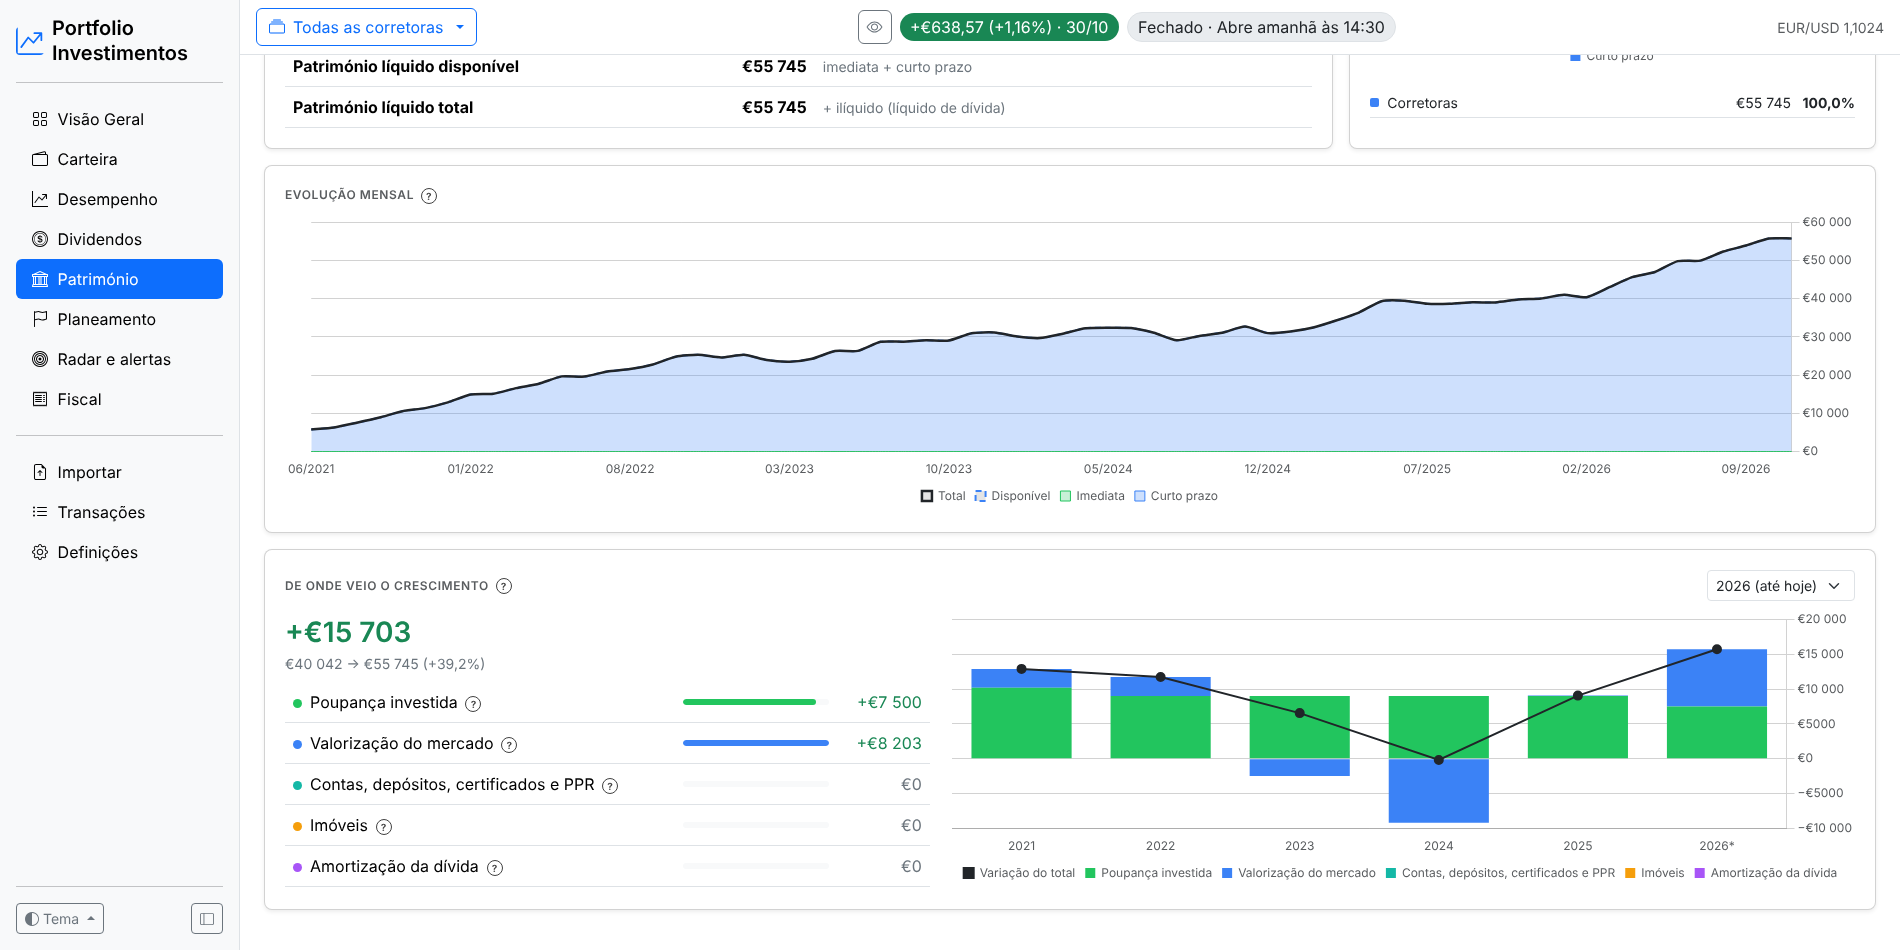
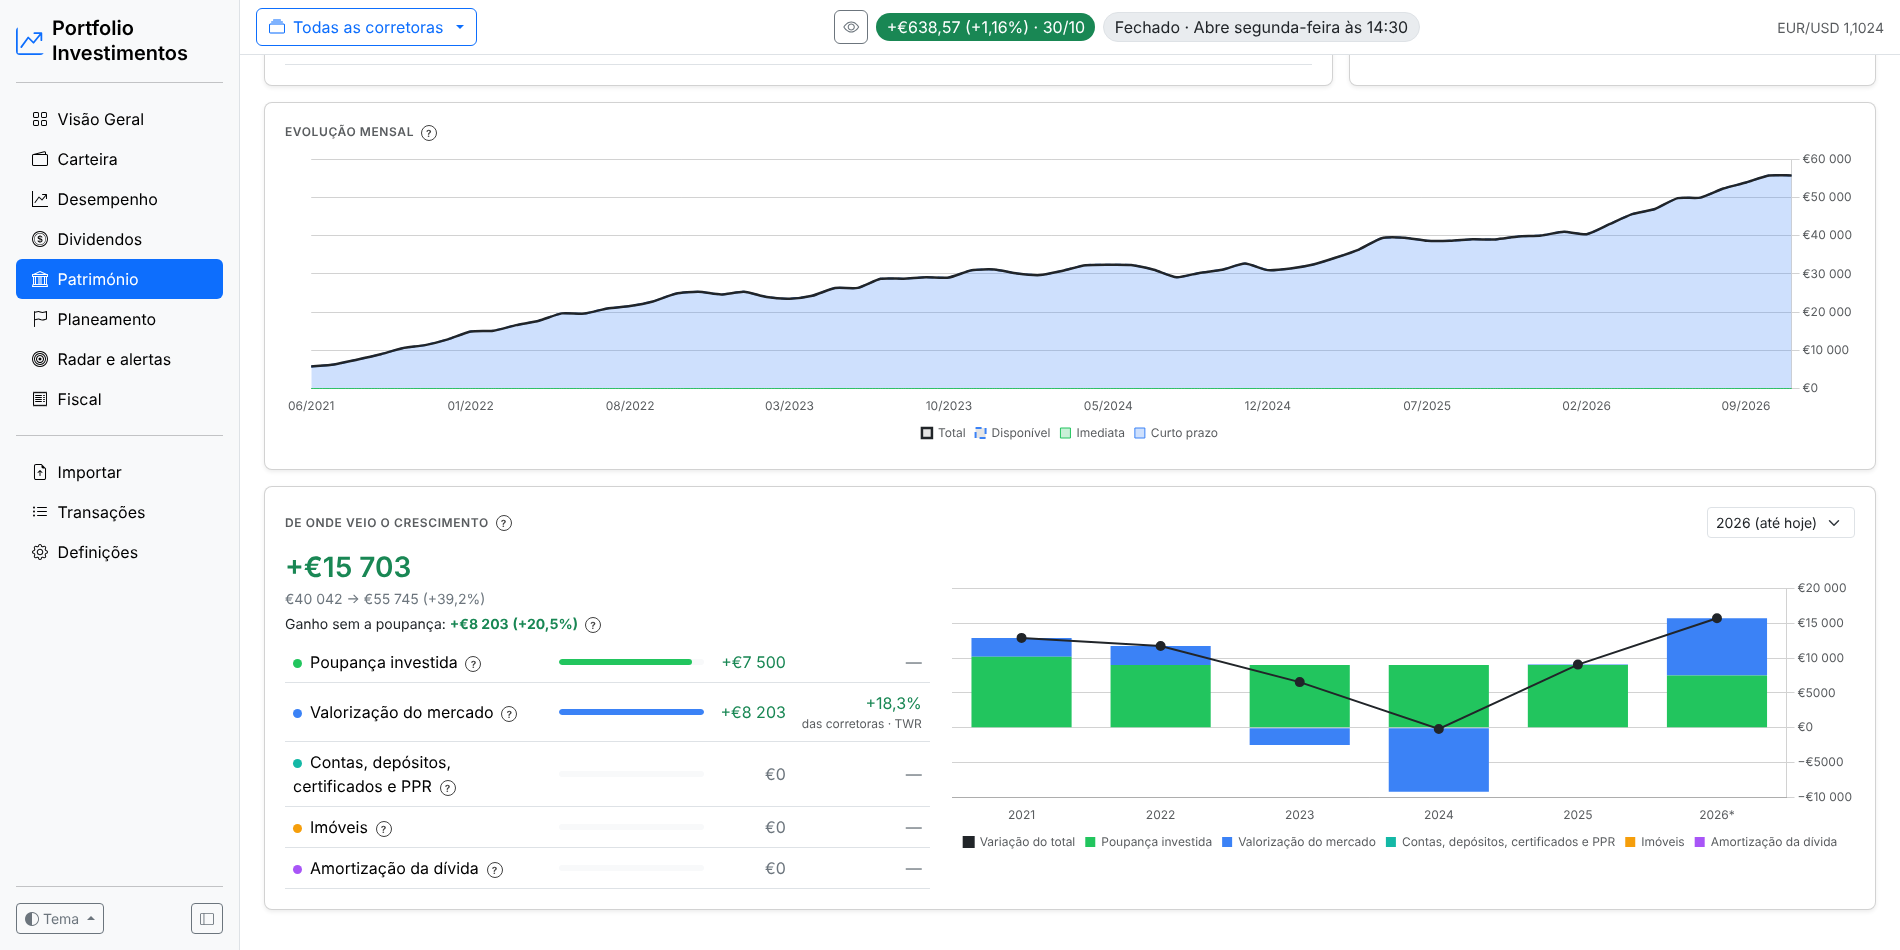
Património: percentagem de ganho em «De onde veio o crescimento»
O cartão «De onde veio o crescimento» mostrava as partes da variação do
património em euros e só a percentagem da variação total, que inclui o
dinheiro novo. Passa a mostrar o rendimento do total e de cada parte.

Cálculo (services/networth.py, growth):
- Ganho sem a poupança: a variação do património menos a poupança
  investida nas corretoras, em euros e em percentagem do património no
  início do ano.
- Valorização do mercado: o rendimento ponderado pelo tempo (TWR) das
  corretoras no ano, a partir da série que o Desempenho já usa, para os
  depósitos a meio do ano não distorcerem a percentagem.
- Outros ativos financeiros e imóveis: a variação sobre o valor no início do
  ano (os imóveis já com o desconto de venda, como nos valores).
- Amortização da dívida: a parte da dívida do início do ano que se pagou.
- Poupança investida: sem percentagem, porque é dinheiro posto e não
  rendimento.
- No ano corrente, as percentagens são até hoje, não anualizadas.

Página (patrimonio.html):
- Linha «Ganho sem a poupança» por baixo da variação, com «?».
- Coluna com a percentagem de cada parte e a indicação da base («das
  corretoras · TWR», «destes ativos», «dos imóveis», «da dívida»).
- As ajudas de cada parte explicam como a percentagem é calculada.
- No telemóvel, a percentagem passa para baixo do valor, para caber.

Testes: as percentagens de cada parte com valores conhecidos, a do mercado
igual ao TWR do ano e o ganho igual à variação menos a poupança. Captura 23
[…]

diff --git a/portfolio_investimentos/templates/pages/patrimonio.html b/portfolio_investimentos/templates/pages/patrimonio.html
@@ -137,13 +137,20 @@
       <div class="pm-growth-year {{ '' if loop.first else 'd-none' }}" data-year="{{ g.year }}">
         <div class="mb-2"><span class="pm-big money {{ g.change|tone }}">{{ g.change|money(sign=True) }}</span>
           <div class="small text-secondary"><span class="money">{{ g.start|money }}</span> → <span class="money">{{ g.end|money }}</span>
-            {% if g.start > 0 %}({{ (g.change / g.start)|pct(1) }}){% endif %}</div></div>
+            {% if g.start > 0 %}({{ (g.change / g.start)|pct(1) }}){% endif %}</div>
+          <div class="small mt-1" data-growth-gain>Ganho sem a poupança: <b class="money {{ g.gain|tone }}">{{ g.gain|money(sign=True) }}</b>
+            {% if g.gain_pct is not none %}<b class="{{ g.gain_pct|tone }}">({{ g.gain_pct|pct(1) }})</b>{% endif %}
+            {{ help("A variação do património sem o dinheiro novo posto nas corretoras (a poupança investida), sobre o património no início do ano. É o que o património rendeu" ~ (", até hoje (não anualizado)." if g.partial else " no ano.")) }}</div></div>
         {% set biggest = g.parts|map(attribute="value")|map("abs")|max %}
         <table class="table pm-table mb-0"><tbody>
           {% for part in g.parts %}
           <tr><td class="pm-nw-name"><span class="pm-nw-dot" style="background: {{ part.color }}"></span>{{ part.name }} {{ help(part.help) }}</td>
             <td class="w-25"><div class="pm-scorebar"><div style="width: {{ (part.value|abs / biggest * 100) if biggest else 0 }}%; background: {{ part.color if part.value >= 0 else 'var(--pm-down)' }}"></div></div></td>
-            <td class="text-end money {{ part.value|tone }}">{{ part.value|money(sign=True) }}</td></tr>
+            <td class="text-end text-nowrap"><span class="money {{ part.value|tone }}">{{ part.value|money(sign=True) }}</span>
+              {% if part.pct is not none %}<div class="small d-sm-none {{ part.pct|tone }}">{{ part.pct|pct(1) }}</div>{% endif %}</td>
+            <td class="text-end text-nowrap pm-growth-pct d-none d-sm-table-cell" data-part-pct="{{ part.key }}">{% if part.pct is not none %}<span class="{{ part.pct|tone }}">{{ part.pct|pct(1) }}</span>
+              <div class="sub">{{ {'market': 'das corretoras · TWR', 'financial': 'destes ativos', 'property': 'dos imóveis', 'debt': 'da dívida'}[part.key] }}</div>
+              {% else %}<span class="text-secondary">—</span>{% endif %}</td></tr>
           {% endfor %}
         </tbody></table>
       </div>

diff --git a/portfolio_investimentos/services/networth.py b/portfolio_investimentos/services/networth.py
@@ -246,16 +246,22 @@ def _records(items):
 # componentes do crescimento: chave → (nome, cor, explicação)
 GROWTH_PARTS = {
     "savings": ("Poupança investida", "#22c55e",
-                "Dinheiro novo nas corretoras: depósitos menos levantamentos no ano."),
+                "Dinheiro novo nas corretoras: depósitos menos levantamentos no ano. Não é rendimento, por isso não "
+                "tem %."),
     "market": ("Valorização do mercado", "#3b82f6",
-               "Ganho ou perda das corretoras no ano (cotações, dividendos e câmbio), sem o dinheiro novo."),
+               "Ganho ou perda das corretoras no ano (cotações, dividendos e câmbio), sem o dinheiro novo. A % é o "
+               "rendimento ponderado pelo tempo (TWR) das corretoras no ano, como em Desempenho: os depósitos a meio "
+               "do ano não a distorcem."),
     "financial": ("Contas, depósitos, certificados e PPR", "#14b8a6",
                   "Variação dos outros ativos financeiros: o que lá puseste mais os juros ou a valorização "
-                  "(os valores indicados à mão não separam as duas coisas)."),
+                  "(os valores indicados à mão não separam as duas coisas). A % é a variação sobre o valor no "
+                  "início do ano, por isso inclui também o que lá puseste."),
     "property": ("Imóveis", "#f59e0b",
-                 "Variação do valor de mercado estimado dos imóveis (já com o desconto de venda, se o usas)."),
+                 "Variação do valor de mercado estimado dos imóveis (já com o desconto de venda, se o usas). A % é "
+                 "a variação sobre o valor no início do ano."),
     "debt": ("Amortização da dívida", "#a855f7",
-             "Quanto as dívidas desceram no ano (se subiram, por um crédito novo, conta a negativo)."),
+             "Quanto as dívidas desceram no ano (se subiram, por um crédito novo, conta a negativo). A % é a parte "
+             "da dívida do início do ano que se pagou."),
 }
 
 
@@ -281,6 +287,13 @@ def growth(p):
     def brokers_at(d):
         i = bisect_right(sdates, d) - 1
         return (p.series.value[i], p.series.net_deposits[i]) if i >= 0 else (0.0, 0.0)
+
+    def twr_at(d):  # índice do rendimento ponderado pelo tempo (antes da 1.ª data: o primeiro, 1 = início)
+        i = bisect_right(sdates, d) - 1
+        return p.series.twr[max(i, 0)] if sdates else None
+
+    def ratio(num, base):
+        return num / base if base and base > 1e-9 else None
 
     def others_at(d):
         out = {"financial": 0.0, "property": 0.0, "debt": 0.0}
@@ -309,10 +322,20 @@ def growth(p):
                  "debt": o0["debt"] - o1["debt"]}
         total0 = b0 + o0["financial"] + o0["property"] - o0["debt"]
         total1 = b1 + o1["financial"] + o1["property"] - o1["debt"]
+        # rendimento de cada parte, sobre a sua própria base (no ano corrente: até hoje, não anualizado)
+        t0, t1 = twr_at(start), twr_at(end)
+        market_pct = (t1 / t0 - 1) if t0 and t1 and (b0 > 0 or b1 > 0) else None
+        pcts = {"savings": None, "market": market_pct,
+                "financial": ratio(parts["financial"], o0["financial"]),
+                "property": ratio(parts["property"], o0["property"]),
+                "debt": ratio(parts["debt"], o0["debt"])}
+        gain = (total1 - total0) - parts["savings"]  # o crescimento sem o dinheiro novo das corretoras
         years.append({"year": year, "partial": end < date(year, 12, 31), "start": round(total0, 2),
                       "end": round(total1, 2), "change": round(total1 - total0, 2),
+                      "gain": round(gain, 2), "gain_pct": ratio(gain, total0),
                       "parts": [{"key": k, "name": GROWTH_PARTS[k][0], "color": GROWTH_PARTS[k][1],
-                                 "help": GROWTH_PARTS[k][2], "value": round(v, 2)} for k, v in parts.items()]})
+                                 "help": GROWTH_PARTS[k][2], "value": round(v, 2), "pct": pcts[k]}
+                                for k, v in parts.items()]})
     return list(reversed(years))
 
 

diff --git a/tests/test_app.py b/tests/test_app.py
@@ -1685,6 +1685,12 @@ def test_networth_growth_by_year(app, client):
         now = {part["key"]: part["value"] for part in years[0]["parts"]}
         assert now == {"savings": 0, "market": 0, "financial": 2000, "property": 10000, "debt": 6000}
         assert years[0]["partial"] and years[0]["end"] == 8000 + 210000 - 140000
+        # rendimento de cada parte sobre a sua base; a poupança não tem %; sem corretoras, sem % do mercado
+        pct = {part["key"]: part["pct"] for part in years[0]["parts"]}
+        assert pct["savings"] is None and pct["market"] is None
+        assert abs(pct["property"] - 10000 / 200000) < 1e-9 and abs(pct["debt"] - 6000 / 146000) < 1e-9
+        assert abs(pct["financial"] - 2000 / 6000) < 1e-9
+        assert years[0]["gain"] == years[0]["change"] and abs(years[0]["gain_pct"] - years[0]["change"] / years[0]["start"]) < 1e-9
         before = {part["key"]: part["value"] for part in years[1]["parts"]}
         # registar não é crescer: a conta conta 5000 desde o início do ano, a casa e o crédito desde junho
         assert before == {"savings": 0, "market": 0, "financial": 1000, "property": 0, "debt": 4000}
@@ -1701,6 +1707,18 @@ def test_networth_growth_by_year(app, client):
         years = networth.growth(data_portfolio())
         assert years and all(abs(sum(p["value"] for p in y["parts"]) - y["change"]) < 0.05 for y in years)
         assert any(p["key"] == "savings" and p["value"] > 0 for y in years for p in y["parts"])
+        # a % do mercado é o TWR das corretoras no ano; o ganho é a variação sem a poupança
+        from bisect import bisect_right
+        pf = data_portfolio()
+        dates, twr = pf.series.dates, pf.series.twr
+        for y in years:
+            i0 = max(bisect_right(dates, date(y["year"] - 1, 12, 31)) - 1, 0)
+            i1 = bisect_right(dates, min(date(y["year"], 12, 31), today)) - 1
+            parts = {p["key"]: p for p in y["parts"]}
+            assert abs(parts["market"]["pct"] - (twr[i1] / twr[i0] - 1)) < 1e-9
+            assert abs(y["gain"] - (y["change"] - parts["savings"]["value"])) < 0.05
+    html = client.get("/patrimonio").get_data(as_text=True)
+    assert "Ganho sem a poupança" in html and "das corretoras · TWR" in html
 
 
 def test_networth_monthly_update_and_reminder(app, client):

diff --git a/README.md b/README.md
@@ -189,7 +189,7 @@ O tema escolhe-se no botão **Tema**, no fundo da barra lateral: Claro, Escuro o
 | **Carteira** | Posições abertas/fechadas, carteira vs mercado no dia (até 5 índices à escolha: MSCI World, S&P 500, Dow Jones, Nasdaq 100, Russell 2000, Bitcoin, FTSE 100, CAC 40, DAX, Euro STOXX 50, AEX e Euronext 100) com alertas da variação do dia de toda a carteira ou de uma corretora (1, 2, 3 ou 5%, a subir, a descer ou os dois; no máximo um aviso por dia e por sentido, sem contar depósitos e levantamentos), filtros por setor, pesquisa, tabela ordenável (preço, 1D, preço médio, investido, valor, não realizado, dividendos, efeito cambial, comissões, ROI, peso) e alocação por ativo, setor e moeda. «As crises»: quanto cairia a carteira de hoje se 2008, 2011, 2020 ou 2022 se repetissem (beta de cada posição face ao S&P 500) e quanto tempo levava a recuperar. «Os custos»: comissões, custo dos ETF (TER, indicado por ti) e retenções na fonte acima dos 15% da convenção, por ano e daqui a 20 anos. «O valor de cada ação»: por ordem de popularidade, DCF, Número de Graham, fórmula de crescimento de Graham (com o rendimento das obrigações AAA configurável) e modelo de Gordon, e em «Mais métodos» Owner Earnings (Buffett), Earnings Power Value (Greenwald), Bazin e o PEG de Peter Lynch, sempre em intervalo e com a fórmula e os números no «?», comparados com o preço, e o crescimento que o preço de hoje já assume; dados fundamentais do Yahoo (uma vez por semana, na atualização de cotações; se o pedido principal falhar, a partir das demonstrações financeiras, também da cotação principal pelo ISIN, convertidos para a moeda da cotação), que podes corrigir. «Carteira cerne»: três ETF com pesos alvo (por omissão ERNX 45% · FWIA 30% · XEON 25%); quando o ETF de crescimento cai face ao máximo, a mistura alvo passa ao escalão seguinte (40/35/25, 35/40/25, 30/50/20, 25/60/15, 20/70/10), a cada 10% de queda (configurável em Definições), e mantém-se quando ele recupera até voltares à base; com os pesos atuais, o desvio, as ordens em € e unidades (ou só a distribuição do dinheiro novo, sem vender), o retorno esperado, a volatilidade e o pior ano típico de cada escalão, e uma faixa no topo quando se chega a um escalão novo. |
 | **Desempenho** | Retorno total e IRR, TWR e CAGR vs índice, melhor/pior ano e mês, sequência atual; TWR anual e acumulado; drawdown; mapa de retornos mensais; mérito vs mercado (captura em alta/baixa, beta, % de meses acima do mercado); risco (Sharpe, Sortino, Calmar, volatilidade, max drawdown); alfa de Jensen e distribuição mensal ordenada. |
 | **Dividendos** | Recebido líquido/bruto e retenção na fonte, maior pagador, meses com dividendos, rendimento anualizado, crescimento anual. **Projeção** do ano e dos próximos 12 meses com os dividendos recebidos e, para posições recentes, os dividendos por ação do Yahoo, com a origem de cada valor. Dividendos por ano, decomposição do crescimento, **mapa mensal com a linha do próximo ano**, **datas ex-dividendo** (recebido, a receber, sem direito por ter comprado depois, previsto), yield on cost e histórico. |
-| **Património** | A carteira das corretoras mais os outros ativos e dívidas que indicas à mão (contas à ordem, depósitos a prazo, certificados, PPR, imóveis, outros, créditos), separados por camadas de liquidez (imediata, curto prazo, ilíquido) e nunca somados num único total: património líquido total e património líquido disponível (só imediata e curto prazo); meses de reserva (liquidez imediata ÷ despesas mensais do Planeamento); imóveis pelo valor líquido de dívida (crédito ligado ao imóvel) com desconto opcional de 5% ou 10% para os custos de venda; casa de habitação própria fora do FIRE; alocação por camada e categoria com e sem a casa própria; evolução mensal por camada; «De onde veio o crescimento», ano a ano (poupança investida, valorização do mercado, outros ativos financeiros, imóveis e amortização da dívida); «Atualizar valores», um formulário mensal com todos os ativos e dívidas, com lembrete (também na Visão Geral) quando um valor passa um mês sem atualizar; aviso nos valores com mais de 90 dias; cada ativo pode somar-se à carteira no Planeamento (FIRE). Na Visão Geral, o património líquido total e o disponível aparecem por baixo do valor da carteira. |
+| **Património** | A carteira das corretoras mais os outros ativos e dívidas que indicas à mão (contas à ordem, depósitos a prazo, certificados, PPR, imóveis, outros, créditos), separados por camadas de liquidez (imediata, curto prazo, ilíquido) e nunca somados num único total: património líquido total e património líquido disponível (só imediata e curto prazo); meses de reserva (liquidez imediata ÷ despesas mensais do Planeamento); imóveis pelo valor líquido de dívida (crédito ligado ao imóvel) com desconto opcional de 5% ou 10% para os custos de venda; casa de habitação própria fora do FIRE; alocação por camada e categoria com e sem a casa própria; evolução mensal por camada; «De onde veio o crescimento», ano a ano (poupança investida, valorização do mercado, outros ativos financeiros, imóveis e amortização da dívida), com o ganho sem a poupança e a % de cada parte sobre a sua base (o mercado pelo TWR das corretoras); «Atualizar valores», um formulário mensal com todos os ativos e dívidas, com lembrete (também na Visão Geral) quando um valor passa um mês sem atualizar; aviso nos valores com mais de 90 dias; cada ativo pode somar-se à carteira no Planeamento (FIRE). Na Visão Geral, o património líquido total e o disponível aparecem por baixo do valor da carteira. |
 | **Planeamento** | Independência financeira (FIRE): o número FIRE «para sempre» (regra dos 4%), «para sempre, com a pensão» e «até aos N anos, com a pensão», já depois do IRS dos levantamentos; a parte já feita; a idade e o ano a que corresponde cada capital necessário (com uma nota quando «investir até aos» adia a data FIRE: o capital pedido desce só porque faltam menos anos até à pensão); a data em três cenários (3%, 5% e 7% reais ao ano), a investir até à data FIRE (ou até uma idade) e a levantar daí em diante; o gráfico da vida inteira com os números FIRE a tracejado e quando cada cenário chega a cada um (tabela e pontos no gráfico); nota quando a pensão cobre as despesas; os outros ativos marcados em Património somam-se à carteira; até quando dura o dinheiro em cada cenário; acompanhamento mês a mês. |
 | **Radar e alertas** | Alertas de preço (acima, abaixo, variação diária), os alertas da carteira criados na Carteira (pausar, reativar, apagar e o último disparo) e lista de observação com preço-alvo. |
 | **Fiscal** | Por ano: mais-valias pelo método FIFO resumidas por ativo (as linhas de cada lote abrem a pedido e vão todas no CSV), dividendos com o crédito de imposto estrangeiro limitado a cada dividendo, juros e estimativa de imposto a 28% (Portugal). |

diff --git a/CHANGELOG.md b/CHANGELOG.md
@@ -4,6 +4,9 @@ O que mudou em cada commit, do mais recente para o mais antigo (gerado a partir 
 
 ## 2026-11-07
 
+- **Património: % de ganho em «De onde veio o crescimento»**  
+  Cada ano mostra o ganho sem a poupança (a variação do património menos o dinheiro novo posto nas corretoras), em € e em % do património no início do ano, e a % de cada parte sobre a sua própria base: a valorização do mercado pelo rendimento ponderado pelo tempo (TWR) das corretoras, como em Desempenho; os outros ativos financeiros e os imóveis sobre o valor no início do ano; a amortização sobre a dívida do início do ano. A poupança investida não tem % (não é rendimento). No ano corrente as % são até hoje, não anualizadas; no telemóvel a % aparece por baixo do valor.
+
 - **Performance: contar posições sem calcular carteiras, faixa da carteira cerne em cache e cache que já não se perde sem razão (#45, #46, #49)**  
   Medido com dados do tamanho de uma carteira real (5 corretoras, 2 100 transações, 293 ativos, 416 mil cotações): o seletor de corretoras deixa de calcular a carteira de cada corretora só para contar as posições (`brokers()` de ~800 ms para ~6 ms; a primeira Definições depois de uma mudança de ~1,4 s para ~0,9 s); a faixa da carteira cerne passa de 12–20 ms em todas as páginas para ~1 ms (lê só o máximo e o último fecho e fica em cache); operações noutras tabelas (ex.: cada login) já não deitam fora as carteiras calculadas (a página seguinte de ~1,4 s para ~0,1 s); e o pré-aquecimento em segundo plano calcula também as carteiras de cada corretora, por isso depois de uma atualização a Visão Geral e a Carteira abrem em ~45–80 ms.
 
